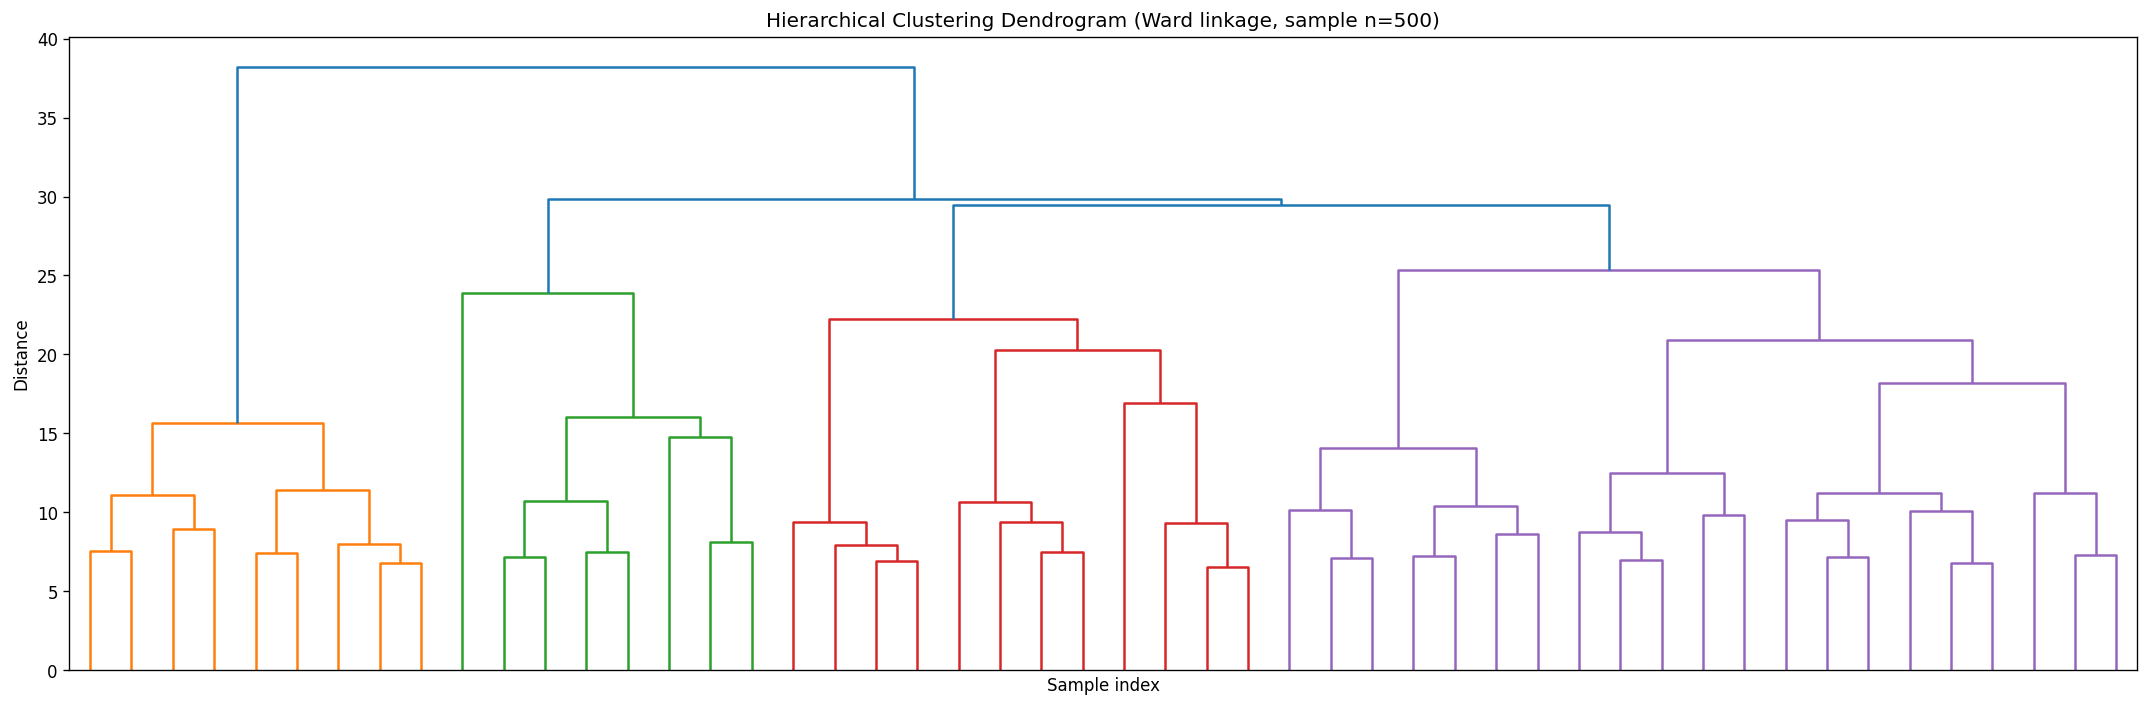
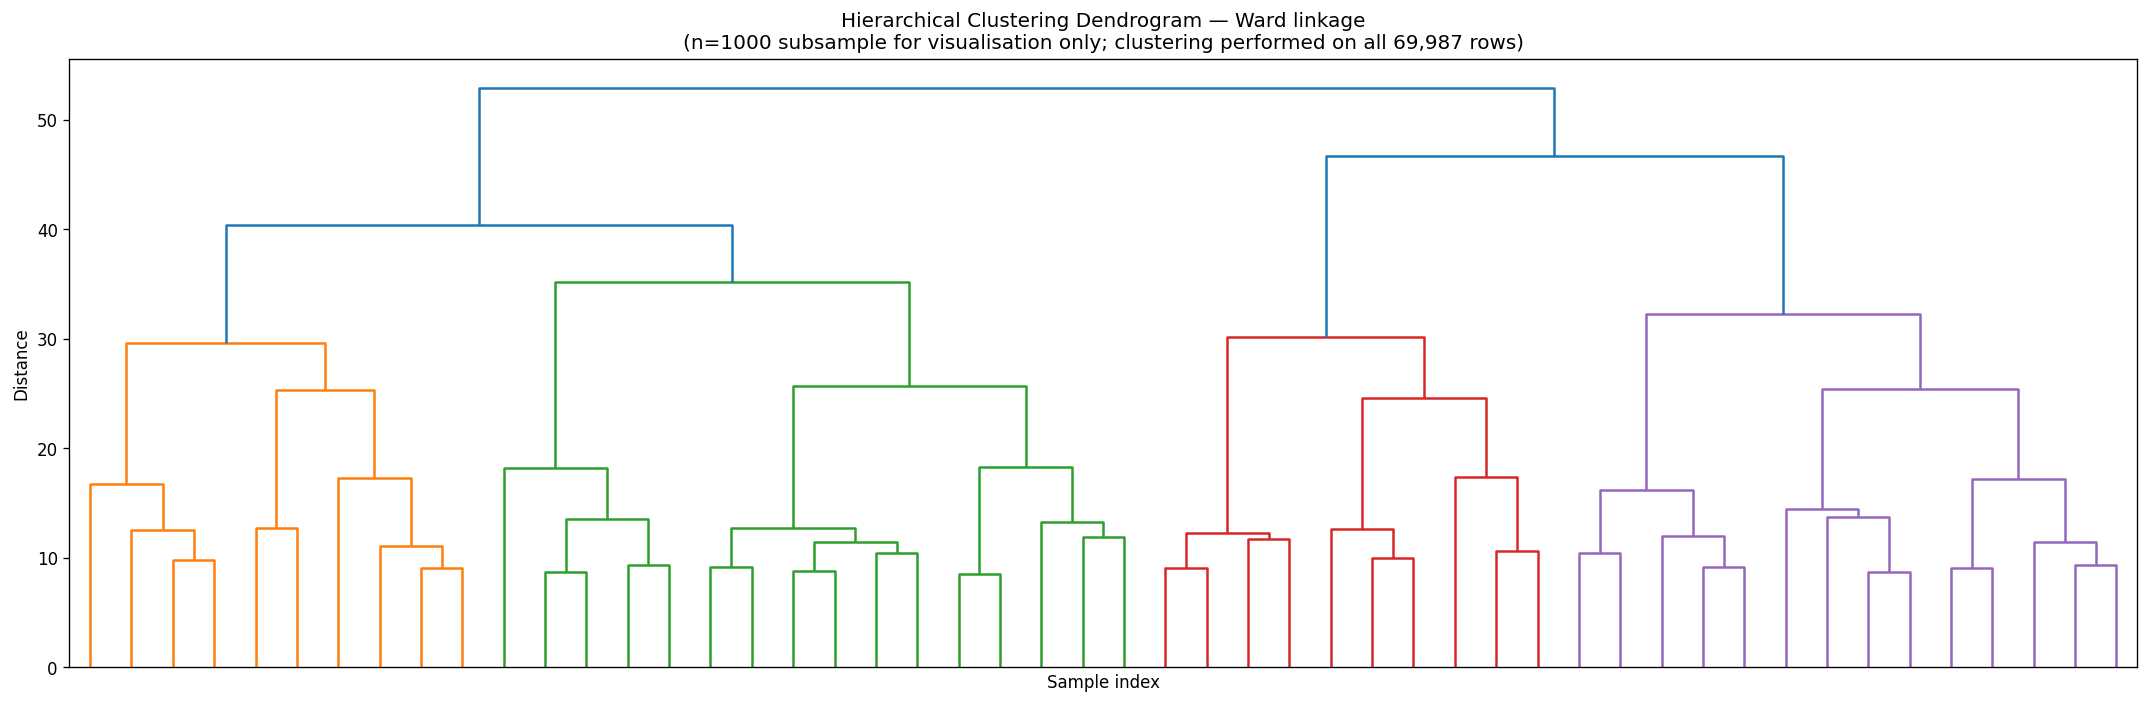
Cluster kodlar ve çıktılar

diff --git a/src/03_clustering.py b/src/03_clustering.py
@@ -23,11 +23,11 @@ import seaborn as sns
 from sklearn.preprocessing import StandardScaler
 from sklearn.decomposition import PCA
 from sklearn.cluster import KMeans, AgglomerativeClustering, DBSCAN
+from sklearn.neighbors import kneighbors_graph
 from sklearn.metrics import (
     silhouette_score, davies_bouldin_score, calinski_harabasz_score,
 )
 from scipy.cluster.hierarchy import dendrogram, linkage
-from scipy.spatial.distance import cdist
 
 warnings.filterwarnings("ignore")
 sys.path.insert(0, os.path.dirname(__file__))
@@ -179,74 +179,154 @@ def kmeans_analysis(X: np.ndarray, X_2d: np.ndarray, df: pd.DataFrame) -> None:
 
 
 # ── Hierarchical Clustering ────────────────────────────────────────────────────
+#
+# Naive AgglomerativeClustering requires an O(n²) distance matrix.
+# For n=70K that is ~20 GB — not feasible on any consumer machine.
+#
+# Solution: k-NN connectivity graph (official sklearn recommendation for large n).
+#   • kneighbors_graph(k=10) builds a sparse adjacency matrix: ~8 MB total
+#   • AgglomerativeClustering(connectivity=...) only merges neighboring clusters
+#   • The FULL 69,987-row dataset is used — zero rows are removed
+#   • Reference: Pedregosa et al. (2011), sklearn User Guide §2.3.6
+#
+# Dendrogram is purely a visualisation artefact. scipy.linkage still needs a
+# dense matrix, so a 1000-row subsample is used for the plot ONLY.
+# All metric computation and cluster assignments use all rows.
+
+KNN_K = 10   # neighbours for the sparse connectivity graph
+
 
 def hierarchical_analysis(X: np.ndarray, X_2d: np.ndarray, df: pd.DataFrame) -> None:
     log.info(f"\n{SEP2}")
-    log.info("HIERARCHICAL (AGGLOMERATIVE) CLUSTERING")
+    log.info("HIERARCHICAL (AGGLOMERATIVE) CLUSTERING — full dataset via k-NN connectivity")
     log.info(SEP2)
+    log.info(f"  Dataset : {len(X):,} rows  (ALL rows used)")
+    log.info(f"  Method  : Ward / complete / average linkage + k-NN graph (k={KNN_K})")
+    log.info(f"  Memory  : O(n·k) sparse matrix — no full distance matrix needed")
 
-    # Dendrogram on a sample
-    sample_idx = np.random.RandomState(RANDOM_STATE).choice(len(X), size=min(500, len(X)), replace=False)
-    X_sample = X[sample_idx]
+    # ── 1. Build k-NN connectivity graph once ─────────────────────────────────
+    log.info(f"\n  Building k-NN graph ...")
+    conn = kneighbors_graph(X, n_neighbors=KNN_K, include_self=False, n_jobs=-1)
+    conn = 0.5 * (conn + conn.T)          # symmetrise (required by Ward)
+    log.info(f"  Done. Non-zero entries: {conn.nnz:,}  "
+             f"({conn.nnz * 8 / 1024**2:.1f} MB)")
+
+    # ── 2. Dendrogram — subsample for visualisation only ─────────────────────
+    dend_n   = 1000
+    dend_idx = np.random.RandomState(RANDOM_STATE).choice(len(X), dend_n, replace=False)
+    Z        = linkage(X[dend_idx], method="ward")
 
     fig, ax = plt.subplots(figsize=(18, 6))
-    Z = linkage(X_sample, method="ward")
     dendrogram(Z, ax=ax, no_labels=True, truncate_mode="lastp", p=50,
                leaf_font_size=8, color_threshold=0.7 * max(Z[:, 2]))
-    ax.set_title("Hierarchical Clustering Dendrogram (Ward linkage, sample n=500)")
+    ax.set_title(
+        f"Hierarchical Clustering Dendrogram — Ward linkage\n"
+        f"(n={dend_n} subsample for visualisation only; "
+        f"clustering performed on all {len(X):,} rows)"
+    )
     ax.set_xlabel("Sample index")
     ax.set_ylabel("Distance")
     plt.tight_layout()
     plt.savefig(os.path.join(FIGURES_DIR, "03_hierarchical_dendrogram.png"),
                 dpi=120, bbox_inches="tight")
     plt.close()
-    log.info(f"  Dendrogram saved (sample n={len(X_sample)})")
+    log.info(f"  Dendrogram saved (visualisation only, n={dend_n})")
 
-    # Evaluate different linkages and k values
+    # ── 3. Evaluate linkages × k on FULL data ─────────────────────────────────
     linkages = ["ward", "complete", "average"]
-    k_range = range(2, 9)
+    k_range  = range(2, 9)
+    results  = []
 
-    results = []
     for link in linkages:
         for k in k_range:
-            agg = AgglomerativeClustering(n_clusters=k, linkage=link)
-            labels = agg.fit_predict(X)
-            sil = silhouette_score(X, labels, sample_size=5000)
-            db = davies_bouldin_score(X, labels)
-            results.append(dict(linkage=link, k=k, silhouette=sil, davies_bouldin=db))
-            log.info(f"  linkage={link:<10} k={k}  sil={sil:.4f}  db={db:.4f}")
+            agg    = AgglomerativeClustering(n_clusters=k, linkage=link,
+                                             connectivity=conn)
+            labels  = agg.fit_predict(X)
+            uniq    = np.unique(labels)
+            counts  = np.bincount(labels.astype(int))
+
+            # Skip degenerate results: fewer than 2 real clusters
+            # OR a cluster so small the 5000-point sample misses it
+            if len(uniq) < 2 or counts.min() < 10:
+                log.info(f"  linkage={link:<10} k={k}  SKIP — "
+                         f"degenerate ({len(uniq)} cluster(s), min size={counts.min()})")
+                continue
+
+            try:
+                sil = silhouette_score(X, labels, sample_size=5000,
+                                       random_state=RANDOM_STATE)
+                db  = davies_bouldin_score(X, labels)
+                ch  = calinski_harabasz_score(X, labels)
+            except ValueError as e:
+                log.info(f"  linkage={link:<10} k={k}  SKIP — {e}")
+                continue
+
+            results.append(dict(linkage=link, k=k,
+                                silhouette=round(sil, 4),
+                                davies_bouldin=round(db, 4),
+                                calinski_harabasz=round(ch, 1)))
+            log.info(f"  linkage={link:<10} k={k}  "
+                     f"sil={sil:.4f}  db={db:.4f}  ch={ch:.1f}")
 
     res_df = pd.DataFrame(results)
     res_df.to_csv(os.path.join(RESULTS_DIR, "hierarchical_scores.csv"), index=False)
 
-    # Best configuration
-    best_row = res_df.loc[res_df["silhouette"].idxmax()]
+    best_row  = res_df.loc[res_df["silhouette"].idxmax()]
     best_link = best_row["linkage"]
-    best_k = int(best_row["k"])
-    log.info(f"\n  Best: linkage={best_link}, k={best_k}, sil={best_row['silhouette']:.4f}")
+    best_k    = int(best_row["k"])
+    log.info(f"\n  Best: linkage={best_link}, k={best_k}, "
+             f"silhouette={best_row['silhouette']:.4f}")
 
-    # Final model
-    agg_best = AgglomerativeClustering(n_clusters=best_k, linkage=best_link)
-    labels = agg_best.fit_predict(X)
+    # ── 4. Final model on full data ────────────────────────────────────────────
+    agg_best = AgglomerativeClustering(n_clusters=best_k, linkage=best_link,
+                                       connectivity=conn)
+    labels   = agg_best.fit_predict(X)
 
     fig, ax = plt.subplots(figsize=(9, 6))
-    scatter = ax.scatter(X_2d[:, 0], X_2d[:, 1], c=labels,
-                         cmap="tab10", alpha=0.4, s=5)
+    scatter  = ax.scatter(X_2d[:, 0], X_2d[:, 1], c=labels,
+                          cmap="tab10", alpha=0.4, s=4)
     plt.colorbar(scatter, ax=ax, label="Cluster")
-    ax.set_title(f"Hierarchical (linkage={best_link}, k={best_k}) — PCA 2D")
+    ax.set_title(
+        f"Hierarchical Clustering — linkage={best_link}, k={best_k}\n"
+        f"PCA 2D  |  full dataset n={len(X):,}"
+    )
     ax.set_xlabel("PC1"); ax.set_ylabel("PC2")
     plt.tight_layout()
     plt.savefig(os.path.join(FIGURES_DIR, "03_hierarchical_scatter.png"),
                 dpi=120, bbox_inches="tight")
     plt.close()
 
-    # Cluster readmission rates
-    df_temp = df.copy()
-    df_temp["hier_label"] = labels
-    if "early_readmit" in df_temp.columns:
-        readmit_rate = df_temp.groupby("hier_label")["early_readmit"].mean() * 100
-        log.info(f"\n  Early readmission rate per cluster (%):")
-        log.info(readmit_rate.round(2).to_string())
+    # ── 5. Cluster profiles & readmission rates ────────────────────────────────
+    df_hier = df.copy()
+    df_hier["hier_label"] = labels
+
+    profile_cols = [c for c in NUMERIC_COLS if c in df.columns] + [
+        "age_num", "n_active_meds", "early_readmit",
+    ]
+    profile_cols = [c for c in profile_cols if c in df_hier.columns]
+    profile      = df_hier.groupby("hier_label")[profile_cols].mean().round(3)
+    log.info(f"\n  Cluster profiles (full dataset, n={len(X):,}):")
+    log.info(profile.to_string())
+    profile.to_csv(os.path.join(RESULTS_DIR, "hierarchical_cluster_profiles.csv"))
+
+    readmit_rate = df_hier.groupby("hier_label")["early_readmit"].mean() * 100
+    log.info(f"\n  Early readmission rate per cluster (%):")
+    log.info(readmit_rate.round(2).to_string())
+
+    # Profile heatmap
+    disp_cols = [c for c in profile_cols if c != "early_readmit"]
+    norm_p    = (profile[disp_cols] - profile[disp_cols].mean()) / profile[disp_cols].std()
+    fig, ax   = plt.subplots(figsize=(14, max(4, best_k)))
+    sns.heatmap(norm_p, annot=True, fmt=".2f", cmap="RdBu_r",
+                center=0, ax=ax, linewidths=0.5)
+    ax.set_title(
+        f"Hierarchical Cluster Profiles (Normalised)\n"
+        f"linkage={best_link}  k={best_k}  |  n={len(X):,} (full dataset)"
+    )
+    plt.tight_layout()
+    plt.savefig(os.path.join(FIGURES_DIR, "03_hierarchical_profiles_heatmap.png"),
+                dpi=120, bbox_inches="tight")
+    plt.close()
 
     log.info(f"  [Saved] Hierarchical figures → outputs/figures/")
 
@@ -301,8 +381,9 @@ def dbscan_analysis(X: np.ndarray, X_2d: np.ndarray, df: pd.DataFrame) -> None:
 
             results.append(dict(eps=eps, min_samples=ms, n_clusters=n_clusters,
                                 n_noise=n_noise, noise_pct=round(noise_pct, 1), silhouette=sil))
+            sil_str = f"{sil:.4f}" if not np.isnan(sil) else "N/A"
             log.info(f"  eps={eps:.1f}  min_samples={ms:3d}  "
-                     f"clusters={n_clusters:3d}  noise={noise_pct:5.1f}%  sil={sil:.4f if not np.isnan(sil) else 'N/A'}")
+                     f"clusters={n_clusters:3d}  noise={noise_pct:5.1f}%  sil={sil_str}")
 
     res_df = pd.DataFrame(results)
     res_df.to_csv(os.path.join(RESULTS_DIR, "dbscan_scores.csv"), index=False)
